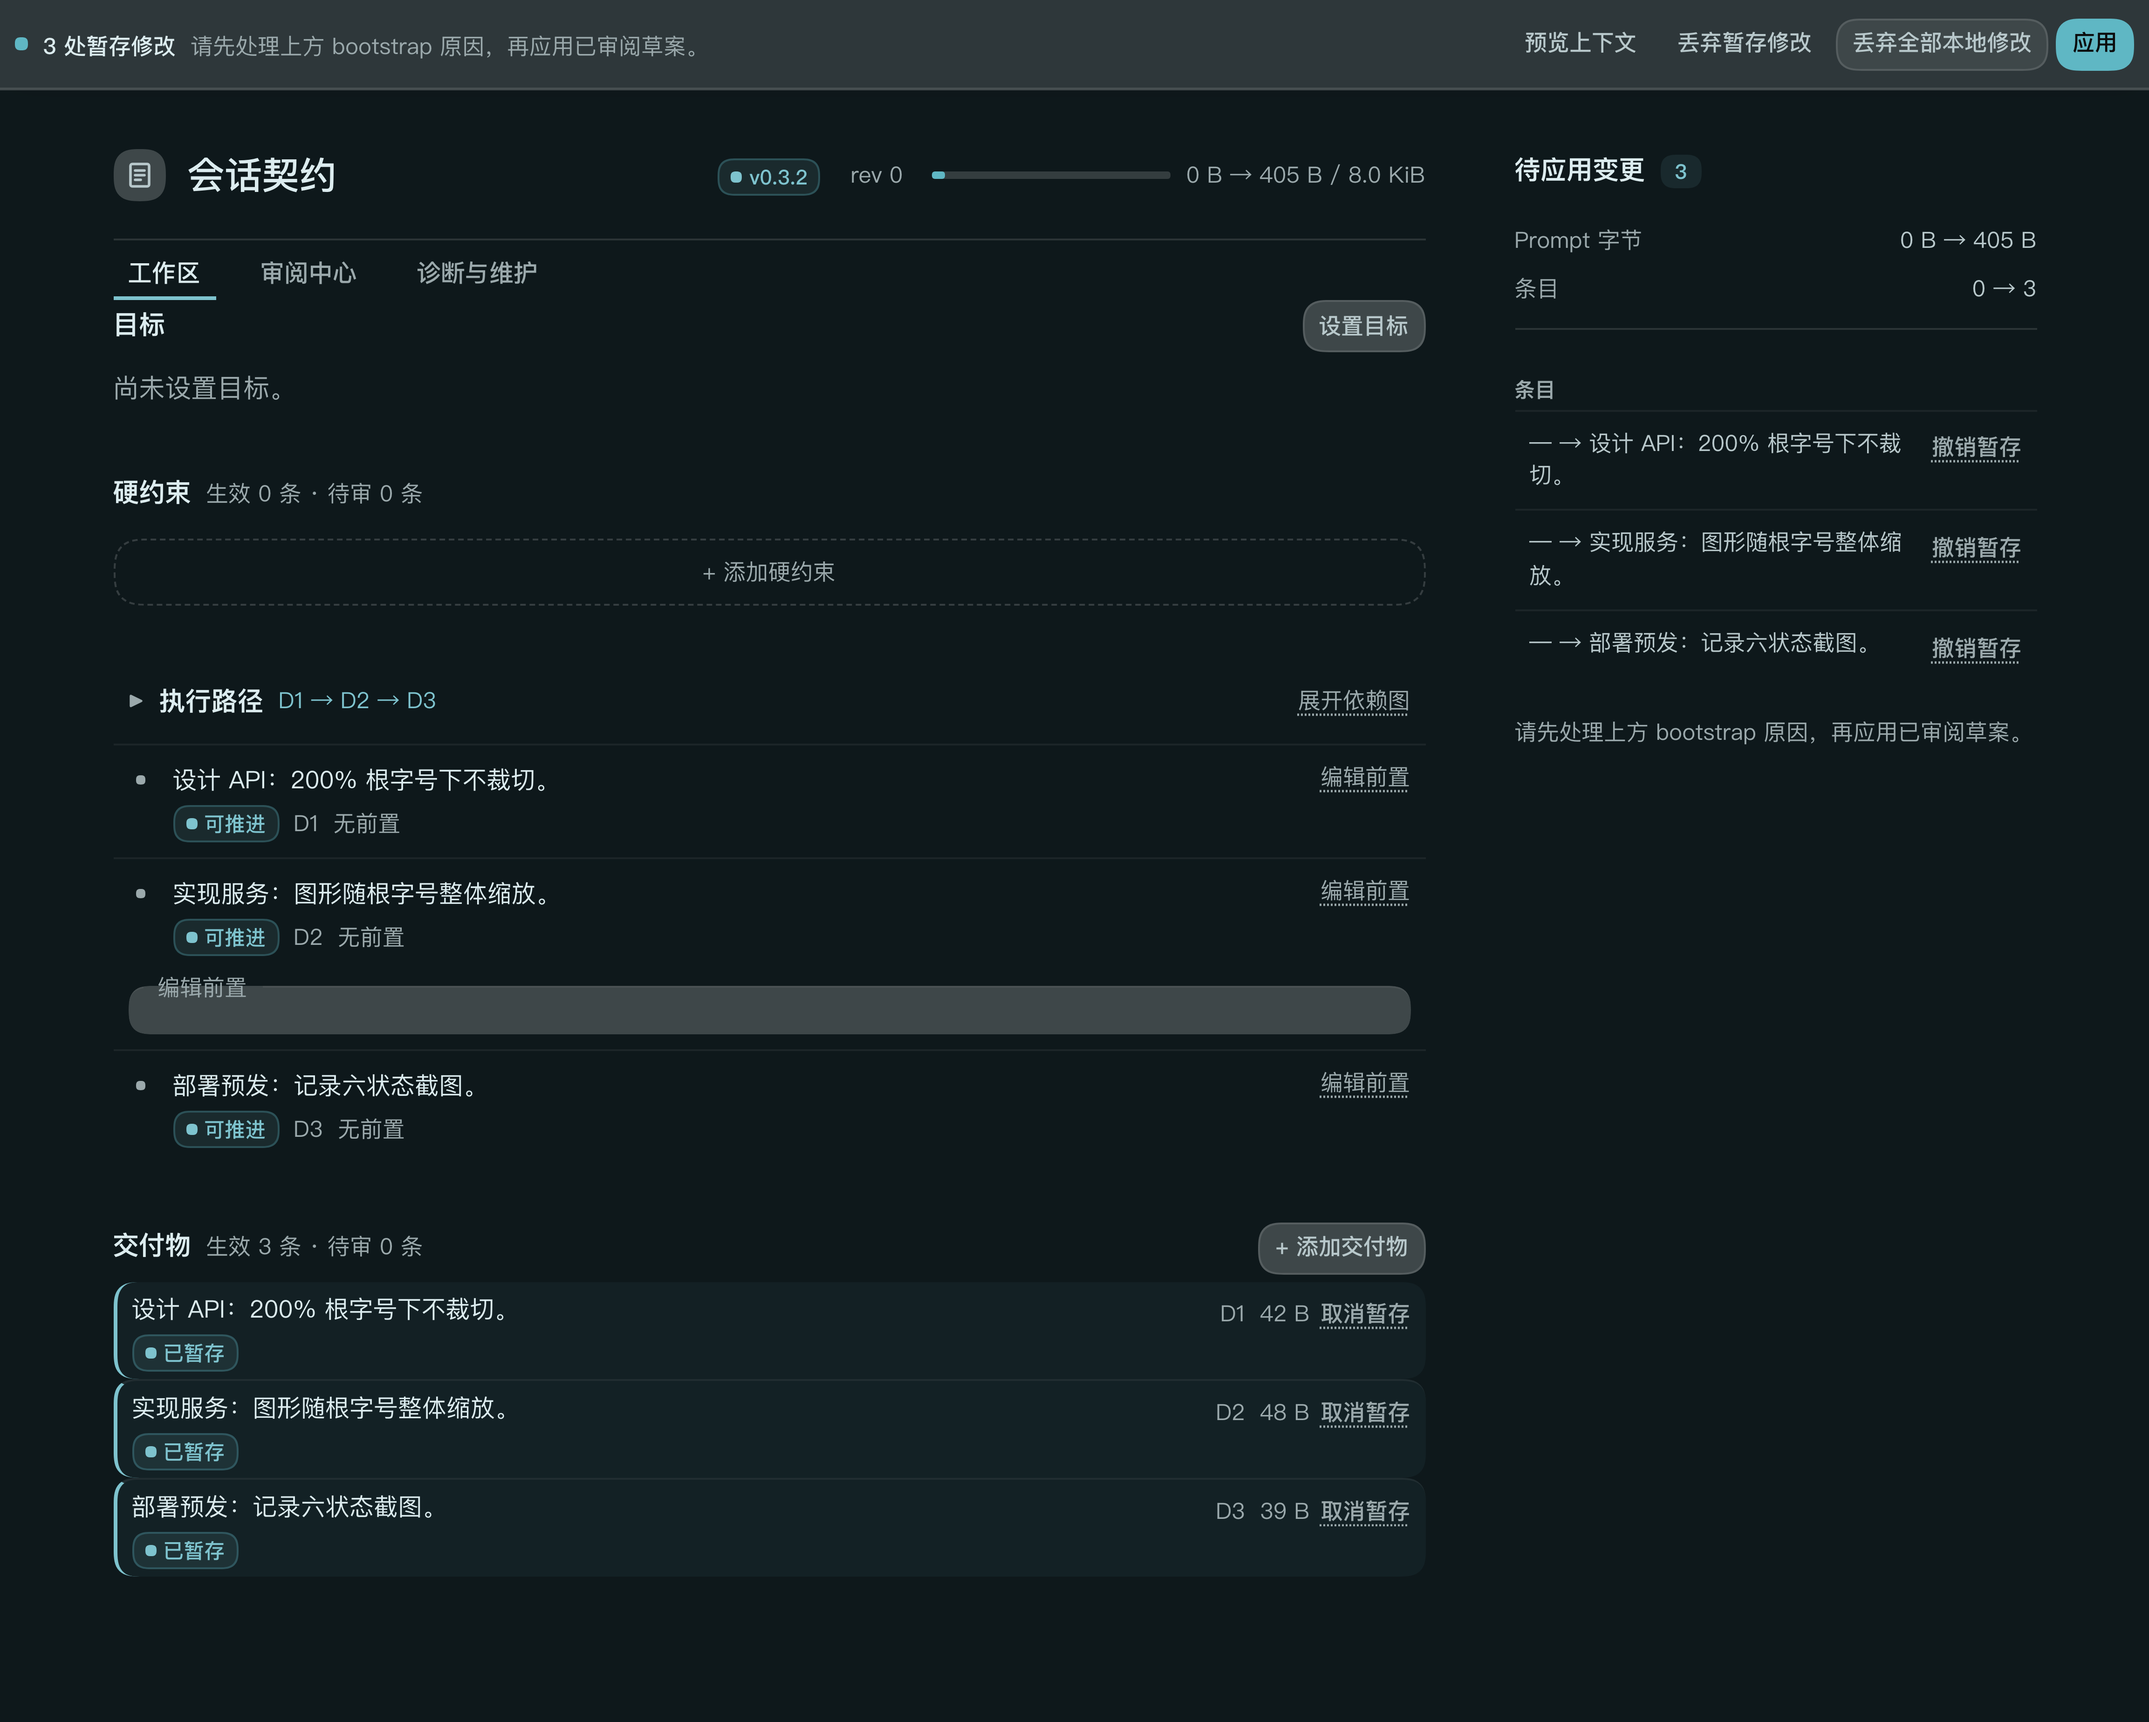
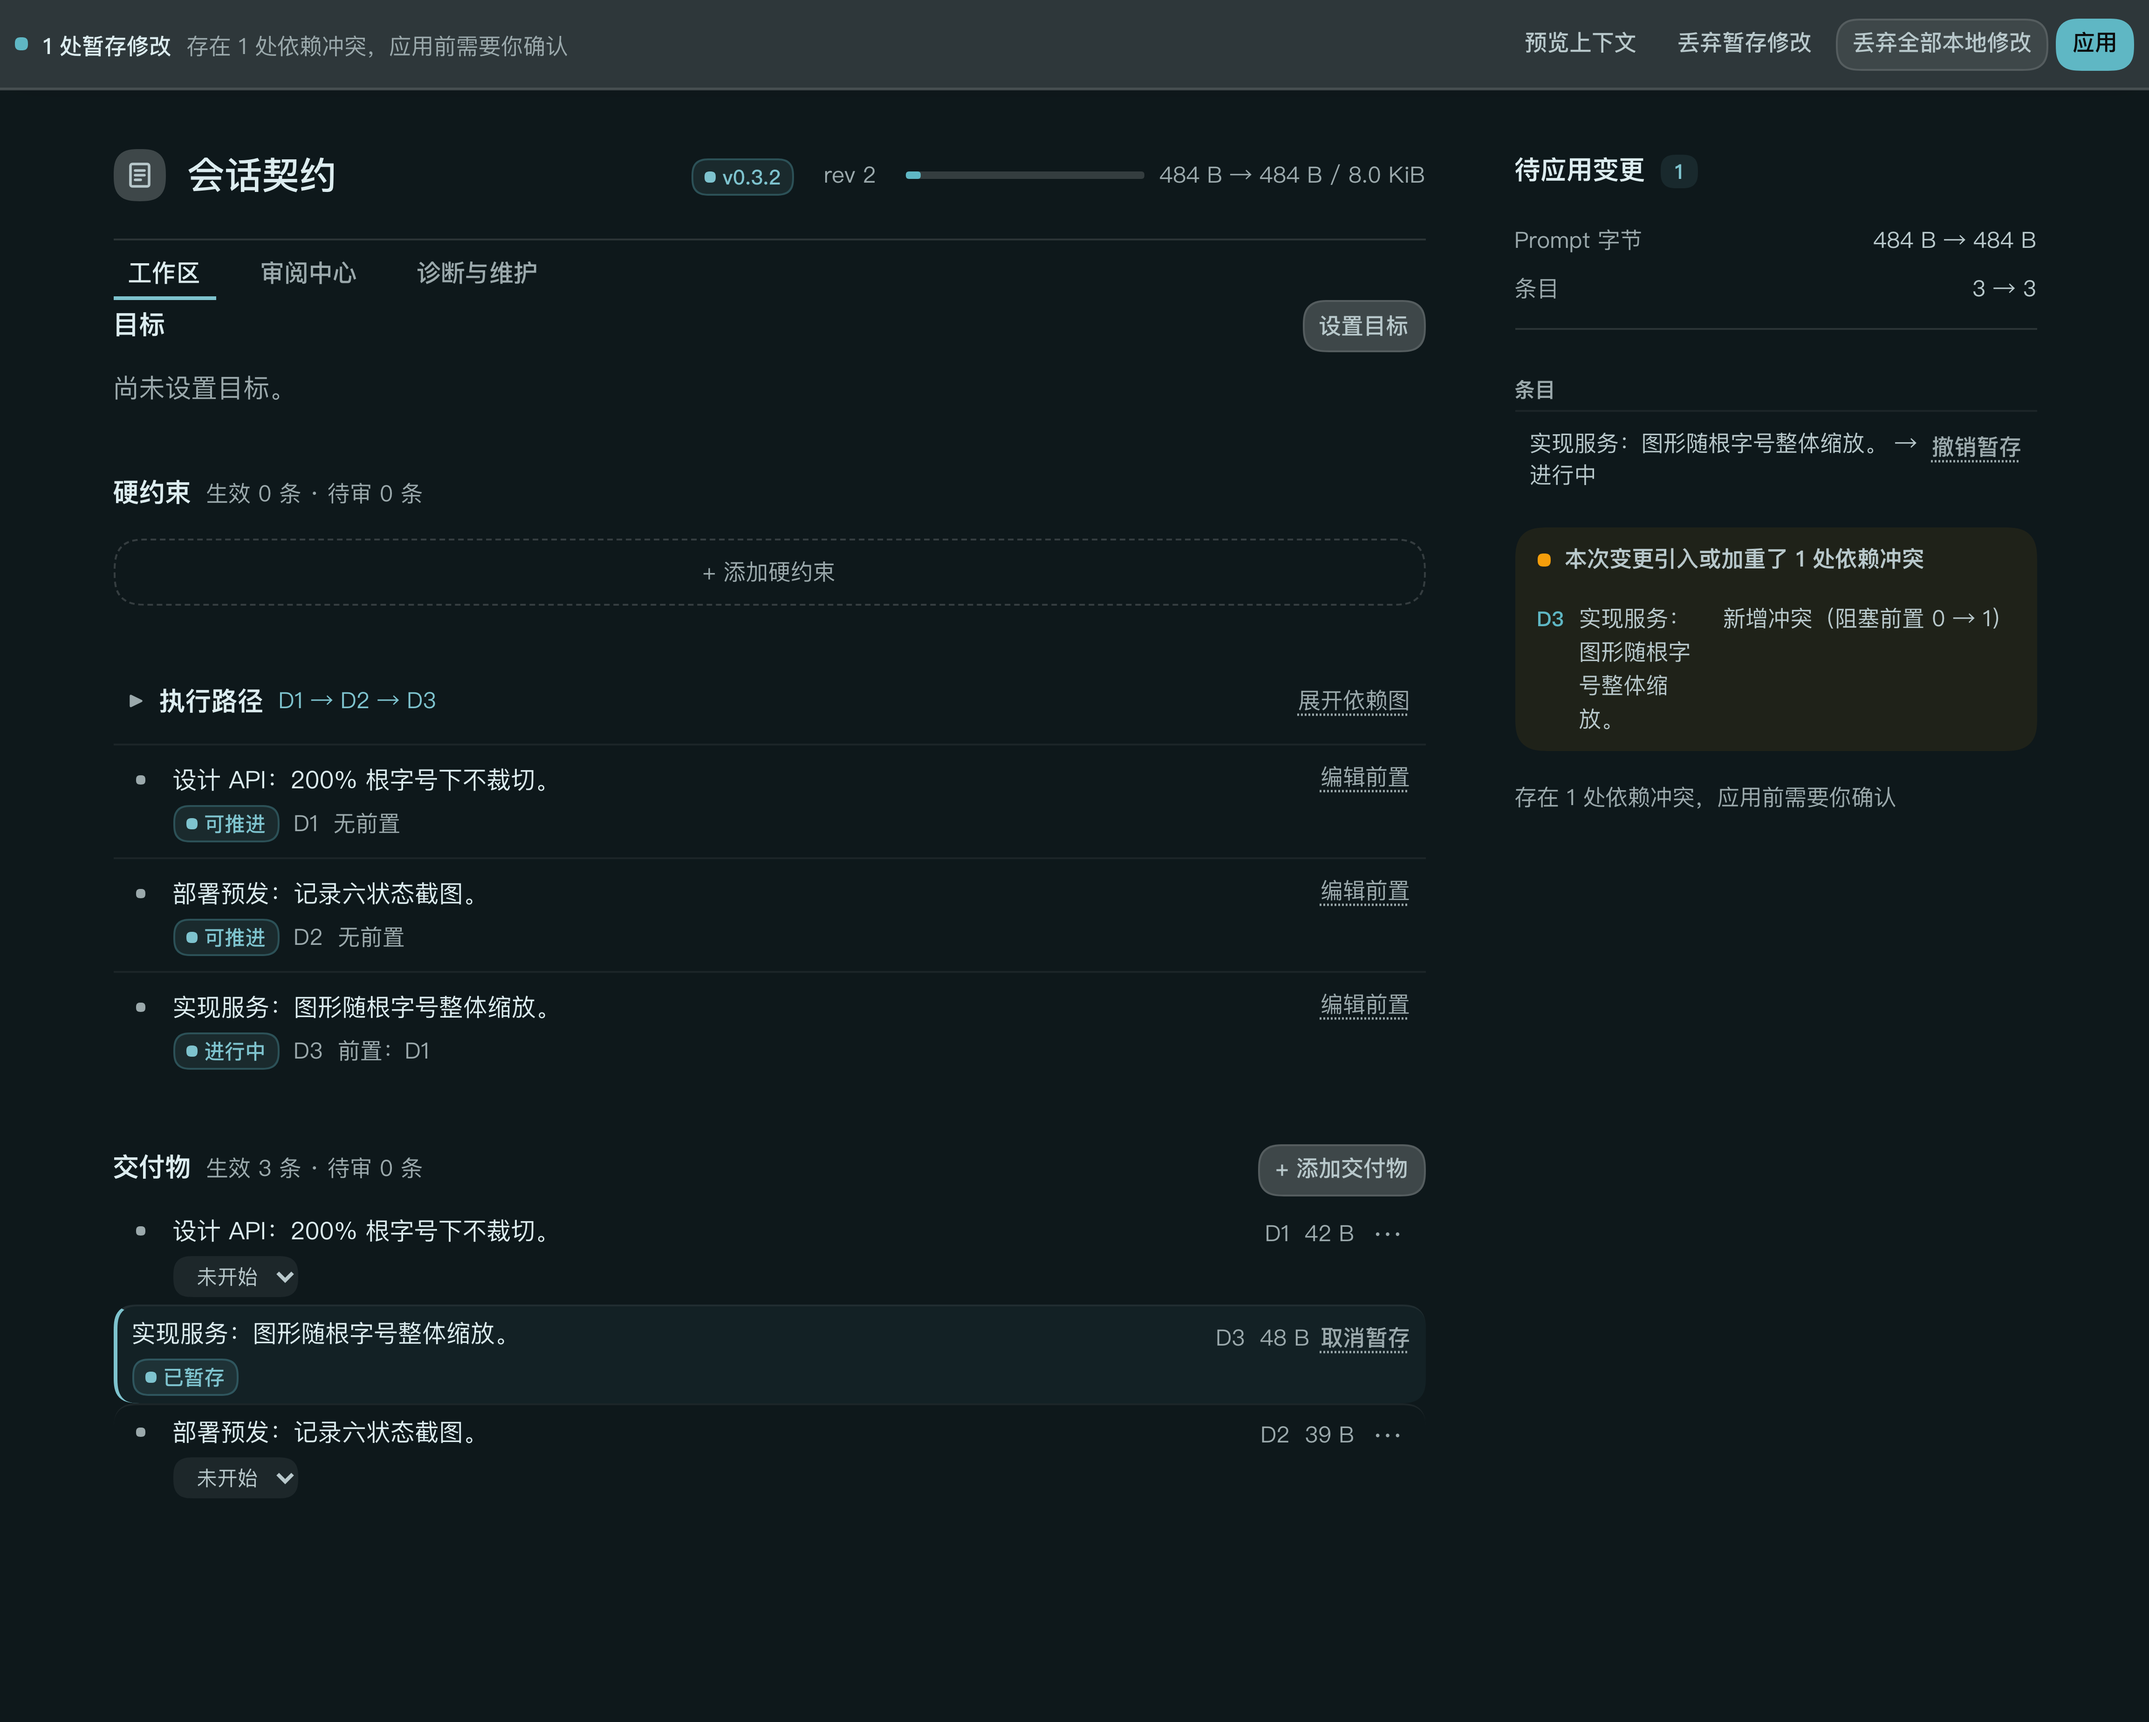
docs(evidence): clean 0.3.2 candidate evidence and dist references
- Re-capture the staged state without the prerequisite editor/bootstrap residue.
- Align the Chinese verification header with the English status block.
- Mark A3 as partial, record the A6/unknown-replay open gates, and document the single 0.3.2 candidate artifact plus dist hygiene.

diff --git a/docs/verification.zh.md b/docs/verification.zh.md
@@ -3,10 +3,10 @@
 [English](verification.md) | 中文
 
 > **状态：** Active — 当前操作记录。
-> **版本范围：** `0.2.2`，2026-11-11 已发布。
-> **基准：** 2026-11-11
+> **版本范围：** `0.3.1` 已于 2026-11-13 发布；`0.3.2` 为无障碍/证据候选。
+> **基准：** 2026-11-16
 
-验证日期：2026-11-11。当前源码版本：`0.2.2`（2026-11-11 已发布）。本文件是当前证据记录；历史逐提交的叙事保留在 Git 历史和 Changelog。临时目录、profile、
+验证日期：2026-11-16。当前源码版本：`0.3.2` 候选；最新已发布版本为 `0.3.1`。本文件是当前证据记录；历史逐提交的叙事保留在 Git 历史和 Changelog。临时目录、profile、
 tarball 和抓取内容位于 `.tmp/`，不进入发布包。
 
 环境：macOS，Node `v22.23.1`，npm `12.0.2`，pnpm `12.3.4`。本地 DSH 开发基线：`0.2.2-rc.3`（当前 npm
@@ -22,6 +22,10 @@ tarball 和抓取内容位于 `.tmp/`，不进入发布包。
 - 当前源码门禁：`npm run check`（最终 0.3.2 树 42 文件 / 500 测试）、token 覆盖 41 static + 1 dynamic、
   11 个声明 DSH 版本，以及 `verify:ui-metrics --gate=final`。
 - 兼容矩阵：11 个声明版本在候选证据 run `43445530821` 中验证通过。
+- 0.3.2 候选 artifact：`dist/dsh-charter-0.3.2.tgz` SHA-256
[1 lines of base64/hex data omitted]
+  这一个候选文件名，旧的 0.3.1 同名开发包已删除，本地 profile 指向该文件。根 `SHA256SUMS` 在 0.3.2
+  release candidate 前仍记录已发布 0.3.1。exact-artifact package smoke 与 packed recovery smoke PASS。
 - 0.3.2 根字号证据：根字号 16/24/32 px 时图形画布整体缩放 1/1.5/2；实测文本无新增裁切，viewport 在 200%
   下可横向滚动。证据：`docs/assets/charter-graph-root-text-200-0.3.2.png`。
 - 真实 AT/VoiceOver、最终六状态截图、Desktop 原生窗口矩阵、W0-1/W0-2 实测和 0.3.2 candidate/promotion
@@ -31,9 +35,9 @@ tarball 和抓取内容位于 `.tmp/`，不进入发布包。
 
 | 区域 | 当前状态 | 证据 / 下一步 |
 | --- | --- | --- |
-| A1 200% 根字号 | 已实现并实测 | 画布 scale 1/1.5/2；文本 scroll 指标不变；200% 下横向滚动 |
+| A1 200% 根字号 | 已实现并实测（CDP 强制根字号） | 画布 scale 1/1.5/2；文本 scroll 指标不变；真实浏览器字号/最小字号设置并入 A2 人工走查 |
 | A2 VoiceOver/NVDA | 未完成 | 真实 AT 走查 tabs/sheet/graph/meter/notice；不能用 AX-tree 代替 |
-| A3 六状态 + media | 未完成 | 最终构建的 empty/applied/conflict + forced-colors/reduced-motion 截图（`docs/assets/charter-state-forced-colors-0.3.2.png`、`docs/assets/charter-state-reduced-motion-0.3.2.png`） |
+| A3 六状态 + media | 部分完成 | 已采 empty/staged/applied/conflict-confirmation + forced-colors/reduced-motion；unknown/replay 待补（`docs/assets/charter-state-*-0.3.2.png`） |
 | A4 冻结稿并排 | 未完成 | 人工并排评审记录 |
 | A5 Desktop 原生窗口 | 未完成 | Electron 窗口/ABI 矩阵 |
 | A6 W0-1/W0-2 | 未完成 | px 化后的断点/栏宽与行容量实测 |
@@ -282,7 +286,7 @@ rm -rf .tmp
   `docs/assets/charter-graph-root-text-200-0.3.2.png`。
 - A3 状态/媒体证据：空/暂存/已应用/冲突确认（`docs/assets/charter-state-empty-0.3.2.png`、`docs/assets/charter-state-staged-0.3.2.png`、
   `docs/assets/charter-state-applied-0.3.2.png`、`docs/assets/charter-state-conflict-0.3.2.png`）以及 forced-colors/reduced-motion 截图（`docs/assets/charter-state-forced-colors-0.3.2.png`、`docs/assets/charter-state-reduced-motion-0.3.2.png`）；
-  已截取冲突确认态；unknown/replay 仍需最终复核。
+  已截取冲突确认态；unknown/replay 仍需最终复核。staged 截图已重采，画面不含前置编辑器或残留 bootstrap notice。
 - A6 断点：860/900/1000/1100/1200/1440 无横向溢出、无节点重叠、列表行无溢出；1100 下 graphcard
   因 app shell 内容容器窄于 880px 折叠，语义列表仍可用，记为 layout observation。
 - B：GUI 方案状态头、附录 D 对账、dependency-graph 状态、verification 当前状态、roadmap/docs index

diff --git a/docs/verification.md b/docs/verification.md
@@ -24,6 +24,11 @@ Environment: macOS, Node `v22.23.1`, npm `12.0.2`, pnpm `12.3.4`. Local DSH deve
 - Source gates on the current tree: `npm run check` (42 files / 500 tests on the final 0.3.2 tree),
   token coverage 41 static + 1 dynamic over 11 declared DSH versions, and `verify:ui-metrics --gate=final`.
 - Compatibility: eleven declared DSH versions are matrix-verified in candidate evidence run `43445530821`.
+- 0.3.2 candidate artifact: `dist/dsh-charter-0.3.2.tgz` SHA-256
[1 lines of base64/hex data omitted]
+  candidate name remains in `dist/`, the stale 0.3.1-name dev tarball was removed, and local profiles point to
+  this exact file. Root `SHA256SUMS` still records published `0.3.1` until a 0.3.2 release candidate exists.
+  Exact-artifact package smoke and packed recovery smoke PASS.
 - 0.3.2 root-text evidence: graph canvas scales as a unit at root font 16/24/32 px (scale 1/1.5/2); measured
   text has no new clipping and the viewport becomes horizontally scrollable. Evidence:
   `docs/assets/charter-graph-root-text-200-0.3.2.png`.
@@ -34,9 +39,9 @@ Environment: macOS, Node `v22.23.1`, npm `12.0.2`, pnpm `12.3.4`. Local DSH deve
 
 | Area | Current status | Evidence / next action |
 | --- | --- | --- |
-| A1 200% root text | implemented + measured | canvas scale 1/1.5/2; text scroll metrics unchanged; horizontal scroll at 200% |
+| A1 200% root text | implemented + measured (CDP-forced root font) | canvas scale 1/1.5/2; text scroll metrics unchanged; real browser font-size/min-font settings join A2 manual walk |
 | A2 VoiceOver/NVDA | open | real AT walk of tabs/sheet/graph/meter/notice; not replaced by AX-tree checks |
-| A3 six states + media | open | final-build empty/applied/conflict + forced-colors/reduced-motion capture |
+| A3 six states + media | partial | empty/staged/applied/conflict-confirmation + forced-colors/reduced-motion captured; unknown/replay pending |
 | A4 frozen mockup review | open | side-by-side human review record |
 | A5 Desktop native window | open | Electron window/ABI matrix |
 | A6 W0-1/W0-2 | open | breakpoint/column and line-capacity measurements after px geometry |
@@ -330,7 +335,7 @@ rm -rf .tmp
   new clipping; the viewport is horizontally scrollable at 200%. Evidence:
   `docs/assets/charter-graph-root-text-200-0.3.2.png`.
 - A3 state/media evidence: empty/staged/applied/conflict-confirmation captures (`docs/assets/charter-state-empty-0.3.2.png`,
-  `docs/assets/charter-state-staged-0.3.2.png`, `docs/assets/charter-state-applied-0.3.2.png`, `docs/assets/charter-state-conflict-0.3.2.png`) plus forced-colors and reduced-motion captures (`docs/assets/charter-state-forced-colors-0.3.2.png`, `docs/assets/charter-state-reduced-motion-0.3.2.png`). The conflict-confirmation state is captured; the unknown/replay state still needs a final pass.
+  `docs/assets/charter-state-staged-0.3.2.png`, `docs/assets/charter-state-applied-0.3.2.png`, `docs/assets/charter-state-conflict-0.3.2.png`) plus forced-colors and reduced-motion captures (`docs/assets/charter-state-forced-colors-0.3.2.png`, `docs/assets/charter-state-reduced-motion-0.3.2.png`). The conflict-confirmation state is captured; the unknown/replay state still needs a final pass. The staged capture was re-taken with no prerequisite editor or stale bootstrap notice visible.
 - A6 breakpoints: no horizontal page overflow, node overlap, or row overflow at 860/900/1000/1100/1200/1440;
   at 1100 the graphcard is folded because the app shell content container is below 880px, while the semantic
   list remains available — recorded as a layout observation.

diff --git a/docs/release-notes/0.3.2.md b/docs/release-notes/0.3.2.md
@@ -19,8 +19,16 @@ wire, prompt projection, or the model tool surface.
   roadmap and docs-index pending wording.
 - Eleven-version compatibility matrix including DSH `0.2.2-rc.3`.
 
+## Local candidate
+
[1 lines of base64/hex data omitted]
+  exact-artifact package smoke and packed recovery smoke PASS. Root `SHA256SUMS` remains published 0.3.1 until
+  the protected candidate flow produces the release bytes.
+
 ## Still-open manual gates
 
 - Real VoiceOver/NVDA walkthrough of tabs, Change Set sheet, graph keyboard semantics, meter/live region.
 - Native Desktop window/ABI matrix; automated renderer screenshots are not a substitute.
 - Human sign-off on the frozen mockup side-by-side review.
+- A6 W0-1/W0-2 measurements, including px line-capacity recalibration after the root-text change.
+- Unknown/replay state evidence; the conflict-confirmation state is captured.
